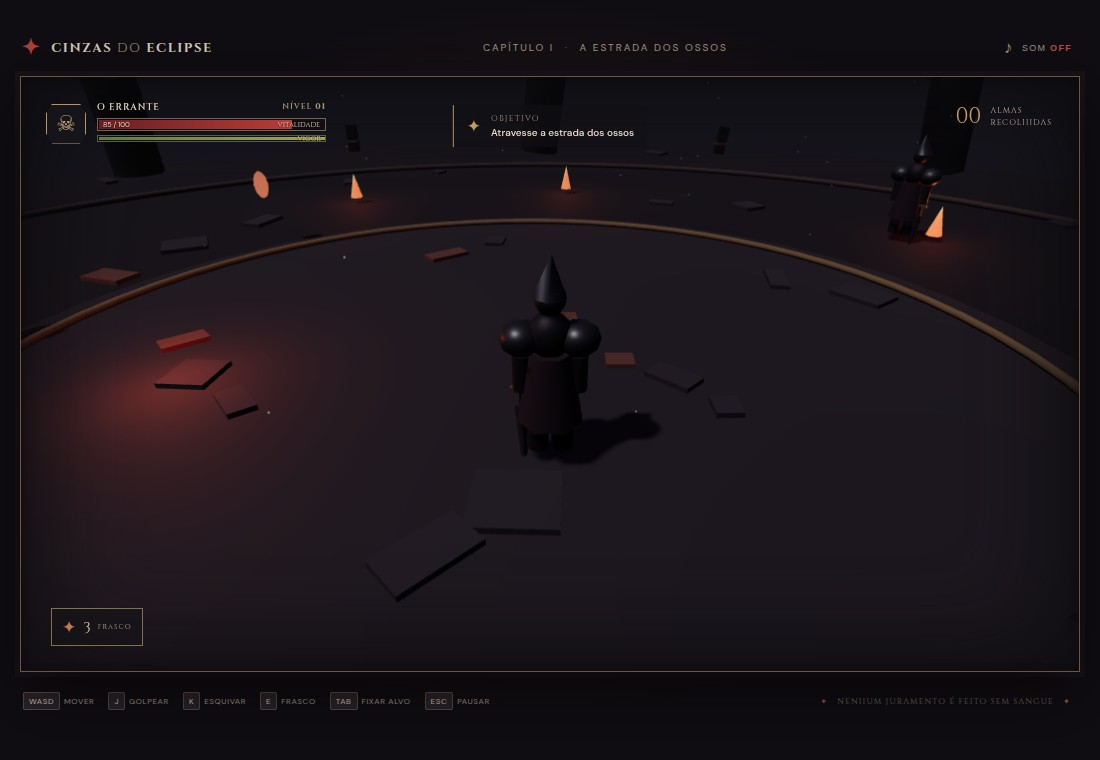
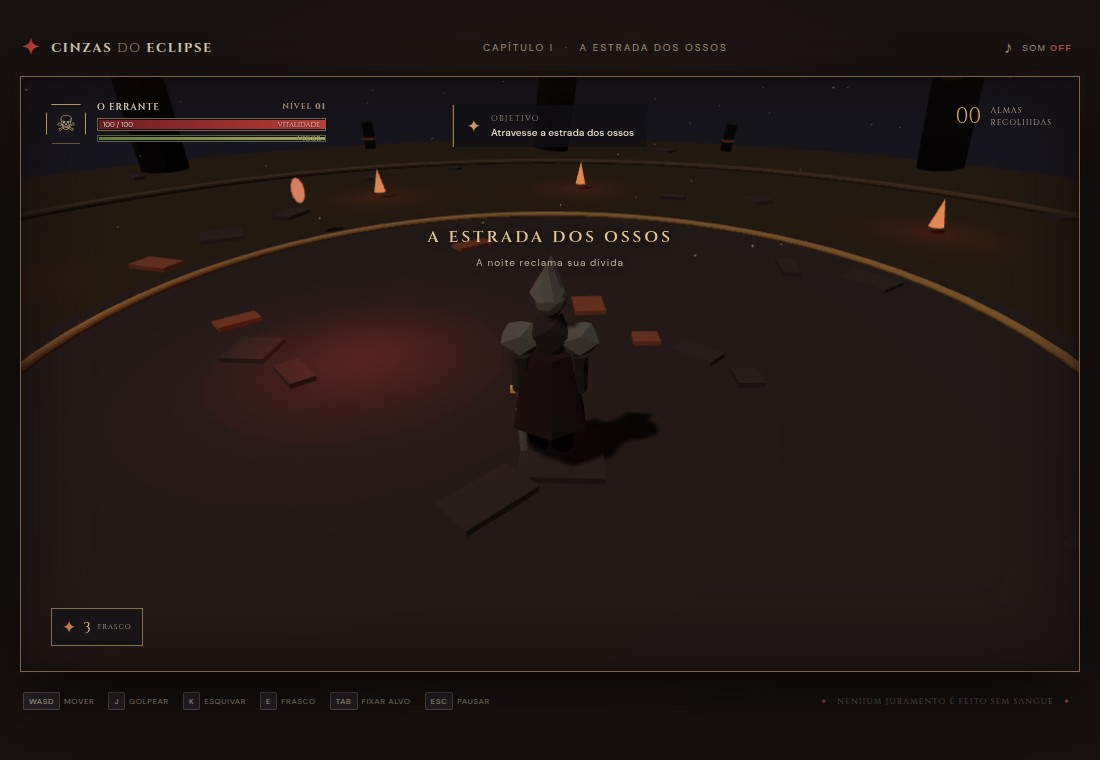
Publish static build for issue #4
Run: 42909543864
Attempt: 1
Generation: 5
Source: 9a268d9789074683455f60848a8487c2e03df6c5

diff --git a/style.css b/style.css
@@ -1,1 +1,8 @@
 *{box-sizing:border-box}[hidden]{display:none!important}:root{color-scheme:dark;--bone:#e5d7c0;--muted:#9c8b7b;--red:#a73834;--gold:#bd9460}html,body{margin:0;min-height:100%;background:#100d12;color:var(--bone);font-family:'DM Sans',sans-serif}body{display:grid;place-items:center;padding:20px;background:radial-gradient(ellipse at 50% 48%,#261b1a 0,#100d12 65%)}.game-shell{width:min(1200px,100%);margin:auto}.topbar{height:56px;display:flex;align-items:center;justify-content:space-between;border-bottom:1px solid #66534455;padding:0 2px;color:#d8cbb8}.wordmark{display:flex;align-items:center;gap:10px;color:inherit;text-decoration:none;font:700 13px 'Cinzel',serif;letter-spacing:1.55px}.wordmark i{font-style:normal;color:#a18d79;font-weight:400}.brand-mark{color:#ae3e39;font-size:21px}.chapter{font-size:10px;letter-spacing:2px;color:#a99680}.chapter span{color:#9e493e;padding:0 6px}.sound-toggle{border:0;background:transparent;color:#9e9082;display:flex;gap:8px;align-items:center;letter-spacing:1.3px;font-size:9px;cursor:pointer}.sound-toggle b{color:#b84b42;font-weight:600}.sound-icon{font-size:17px}.game-frame{position:relative;width:100%;aspect-ratio:16/9;overflow:hidden;background:#17151a;border:1px solid #6f5442;box-shadow:0 22px 65px #0009,0 0 0 5px #171217}.game-frame canvas{display:block;width:100%;height:100%;touch-action:none}.vignette{pointer-events:none;position:absolute;inset:0;box-shadow:inset 0 0 90px 28px #09090cbf,inset 0 0 15px #0009;z-index:1}.overlay{position:absolute;inset:0;z-index:3;display:flex;flex-direction:column;align-items:center;justify-content:center;text-align:center;background:linear-gradient(90deg,#0b0b10bf 0%,#10101576 49%,#10101576 60%,#0b0b10bf 100%)}.intro:before,.ending:before{content:'';position:absolute;inset:0;background:radial-gradient(ellipse at 51% 47%,transparent 0,transparent 25%,#0b0b1099 75%);pointer-events:none}.intro-copy{position:relative;margin-top:-10px}.eyebrow{display:flex;align-items:center;gap:12px;justify-content:center;color:#c4a878;font:600 10px 'Cinzel',serif;letter-spacing:3px}.eyebrow span{width:26px;height:1px;background:#a74a3e}.intro h1{font:600 clamp(38px,6.4vw,76px)/.95 'Cinzel',serif;letter-spacing:5px;margin:22px 0 18px;text-shadow:0 4px 26px #000}.intro h1 em,.ending h2 em{font-style:normal;color:#b6473d}.intro h1 em{font-size:.68em}.intro-desc{color:#d0c1ae;font:14px/1.7 'DM Sans',sans-serif;letter-spacing:.3px;margin:0 0 27px}.primary-button{position:relative;z-index:2;min-width:228px;padding:15px 20px;border:1px solid #a87b53;background:linear-gradient(135deg,#472724,#291b20);color:#e9d7bb;font:600 11px 'Cinzel',serif;letter-spacing:1.6px;cursor:pointer;box-shadow:0 8px 26px #0007;transition:.2s}.primary-button:hover{background:#62372d;transform:translateY(-2px);border-color:#d3ad79}.primary-button span{color:#d19a61;margin-left:12px;font-size:16px}.intro-note{margin-top:19px;color:#8f8073;font:9px 'Cinzel',serif;letter-spacing:1.8px}.intro-bottom{position:absolute;bottom:20px;left:28px;right:28px;display:flex;justify-content:space-between;color:#a39483;font:9px 'Cinzel',serif;letter-spacing:1.5px}.intro-bottom span:nth-child(2){color:#ad5542}.ending{background:#0b0a0cd9}.ending h2{font:600 clamp(36px,5vw,62px)/1.06 'Cinzel',serif;letter-spacing:3px;margin:20px 0}.ending>p:not(.eyebrow){color:#c3b4a1;font-size:14px;margin:0 0 28px}.hud{position:absolute;inset:0;z-index:2;pointer-events:none}.hero-status{position:absolute;left:25px;top:24px;display:flex;align-items:center;gap:11px;width:280px}.hero-portrait{width:40px;height:40px;display:grid;place-items:center;border:1px solid #b8945f;color:#c4a878;background:#17151dcc;font-size:22px;clip-path:polygon(15% 0,85% 0,100% 25%,100% 75%,85% 100%,15% 100%,0 75%,0 25%)}.status-bars{flex:1}.name-line{display:flex;justify-content:space-between;color:#e3d4c0;font:600 9px 'Cinzel',serif;letter-spacing:1px;margin-bottom:5px}.level{color:#a9957b;font-size:8px}.bar{height:13px;background:#100e12c9;border:1px solid #78614b;position:relative;margin-bottom:4px;overflow:hidden}.bar span{position:absolute;inset:1px auto 1px 1px;width:100%;transition:width .18s}.bar.hp span{background:linear-gradient(90deg,#6e1d23,#b73d38)}.bar.stamina{height:7px;border-color:#536043}.bar.stamina span{background:linear-gradient(90deg,#647b3a,#a9a64c)}.bar i,.bar b{position:absolute;right:5px;top:0;height:100%;display:flex;align-items:center;font:7px 'Cinzel',serif;color:#f0d7c3;text-shadow:0 1px 2px #000}.bar b{font:7px 'DM Sans',sans-serif;left:5px;right:auto}.bar.stamina i{color:#e3dabb;right:4px}.objective{position:absolute;top:28px;left:50%;transform:translateX(-50%);display:flex;align-items:center;gap:10px;background:#111014a6;padding:8px 13px;border-left:1px solid #b69160;white-space:nowrap}.objective-icon{color:#c39b65;font-size:17px}.objective small,.objective b{display:block}.objective small{font:8px 'Cinzel',serif;letter-spacing:1.3px;color:#a79680;margin-bottom:2px}.objective b{font:500 10px 'DM Sans',sans-serif;color:#eee0ce}.kill-count{position:absolute;right:27px;top:25px;display:flex;align-items:center;gap:9px;color:#d9c8b2}.kill-count>span{font:22px 'Cinzel',serif;color:#c69a62}.kill-count small{font:8px/1.4 'Cinzel',serif;letter-spacing:1px;color:#c2b19a}.flask{position:absolute;left:30px;bottom:25px;display:flex;align-items:center;gap:7px;padding:7px 10px;background:#151317b8;border:1px solid #83704d;color:#ddc397}.flask>span{font-size:17px;color:#c87851}.flask b{font:15px 'Cinzel',serif}.flask small{font:7px 'Cinzel',serif;letter-spacing:1px;color:#baa88e}.lock-label{position:absolute;top:102px;left:50%;transform:translateX(-50%);color:#e8c778;font:9px 'Cinzel',serif;letter-spacing:2px;text-shadow:0 2px 6px #000;opacity:0;transition:opacity .2s}.lock-label.visible{opacity:1}.boss-hud{position:absolute;z-index:2;bottom:24px;left:50%;transform:translateX(-50%);width:min(520px,60%);text-align:center}.boss-title{font:600 10px 'Cinzel',serif;letter-spacing:2px;color:#e0c8ab;text-shadow:0 2px 5px #000;margin-bottom:7px}.boss-title span{color:#bb654a;padding:0 8px}.boss-bar{height:10px;background:#160e10;border:1px solid #9a6d55;padding:1px}.boss-bar span{height:100%;display:block;width:100%;background:linear-gradient(90deg,#651c27,#b23d3b);transition:width .2s}.wave-toast{position:absolute;z-index:2;top:25%;left:50%;transform:translate(-50%,-10px);text-align:center;opacity:0;transition:opacity .4s,transform .4s;color:#e4c798;font:600 16px 'Cinzel',serif;letter-spacing:3px;text-shadow:0 2px 14px #000;pointer-events:none}.wave-toast.show{opacity:1;transform:translate(-50%,0)}.wave-toast small{display:block;margin-top:8px;color:#c2b19c;font:10px 'DM Sans',sans-serif;letter-spacing:1px}.pause-indicator{position:absolute;z-index:4;inset:0;display:flex;flex-direction:column;align-items:center;justify-content:center;background:#09090a99;color:#e6d5bd;font:22px 'Cinzel',serif;letter-spacing:5px}.pause-indicator small{font:9px 'DM Sans',sans-serif;letter-spacing:2px;margin-top:12px;color:#aa9984}.damage-flash{position:absolute;z-index:2;inset:0;opacity:0;pointer-events:none;background:radial-gradient(ellipse,transparent 38%,#8d161c99 100%);transition:opacity .15s}.loading{position:absolute;z-index:5;inset:0;display:grid;place-items:center;background:#100d12;color:#c7a779;font:11px 'Cinzel',serif;letter-spacing:3px;transition:opacity .4s}.loading.done{opacity:0;pointer-events:none}.bottom-bar{height:57px;display:flex;align-items:center;justify-content:space-between;border-top:1px solid #66534455;padding:0 3px}.controls-legend{display:flex;align-items:center;gap:14px;color:#a99783;font:8px 'DM Sans',sans-serif;letter-spacing:.6px}.controls-legend span{display:flex;align-items:center;gap:4px}kbd{font:8px 'DM Sans',sans-serif;color:#d6c6b0;background:#292329;border:1px solid #584b43;border-radius:2px;padding:3px 5px}.footer-caption{color:#827365;font:8px 'Cinzel',serif;letter-spacing:1.2px}.small-cross{color:#ad5342;padding:0 6px}.mobile-controls{display:none;position:absolute;z-index:2;left:14px;right:14px;bottom:12px;justify-content:space-between;align-items:flex-end;pointer-events:none}.dpad,.action-pad{display:grid;grid-template-columns:repeat(2,44px);gap:6px;pointer-events:auto}.dpad button,.action-pad button{height:42px;width:44px;border:1px solid #c5a16b88;border-radius:50%;background:#17151ad9;color:#ead8bd;font-size:18px;touch-action:none}.action-pad button:nth-child(2){background:#6f3029d9}.action-pad{grid-template-columns:repeat(2,46px)}.action-pad button{width:46px;height:46px}.mobile-controls button:active{background:#9e563b}.game-frame:has(.mobile-controls button){ }@media(max-width:700px){body{padding:7px}.topbar{height:42px}.chapter{display:none}.game-frame{aspect-ratio:16/10}.game-frame canvas{object-fit:cover}.bottom-bar{height:auto;min-height:43px;justify-content:center}.footer-caption{display:none}.controls-legend{gap:7px;flex-wrap:wrap;justify-content:center}.controls-legend span{font-size:7px}.controls-legend span:nth-child(n+4){display:none}.mobile-controls{display:flex}.hero-status{left:10px;top:10px;width:205px;transform:scale(.85);transform-origin:top left}.objective{top:68px;left:auto;right:8px;transform:none;padding:6px 8px}.objective b{font-size:8px}.kill-count{right:10px;top:10px;transform:scale(.85);transform-origin:top right}.flask{left:auto;right:12px;bottom:13px}.boss-hud{bottom:76px;width:72%}.lock-label{top:99px}.intro h1{letter-spacing:3px;margin:15px 0}.intro-desc{font-size:12px;margin-bottom:17px}.primary-button{padding:12px 16px}.intro-bottom{bottom:10px;left:12px;right:12px;font-size:7px}.intro-note{font-size:7px}.eyebrow{font-size:8px;letter-spacing:1.5px}.hero-portrait{width:34px;height:34px}.status-bars{min-width:145px}}@media(max-height:500px) and (orientation:landscape){body{padding:4px}.topbar{height:30px}.bottom-bar{height:30px}.game-frame{aspect-ratio:16/9}.mobile-controls{bottom:5px}.intro-copy{transform:scale(.76)}.intro-bottom{bottom:6px}}
+/* Classic late-80s/90s dark-fantasy cel-animation finish. */
+:root{--bone:#e8d8ba;--muted:#a5967f;--red:#a63832;--gold:#c7a36d}
+html,body{background-color:#17110f}
+body{background:radial-gradient(ellipse at 50% 45%,#32211d 0,#17110f 68%)}
+.game-frame{border-color:#806348;box-shadow:0 22px 65px #000b,0 0 0 5px #1a1310}
+.vignette{box-shadow:inset 0 0 65px 16px #100b09a8,inset 0 0 10px #0008}
+.intro,.ending{background:linear-gradient(90deg,#120e0dc7 0%,#1a131078 49%,#1a131078 60%,#120e0dc7 100%)}

diff --git a/game.js b/game.js
@@ -3,15 +3,17 @@ import * as THREE from 'https://cdn.jsdelivr.net/npm/three@0.170.0/build/three.m
   'use strict';
   const canvas=document.querySelector('#game'), frame=document.querySelector('.game-frame');
   const ui={intro:document.querySelector('#intro'),ending:document.querySelector('#ending'),endingTitle:document.querySelector('#endingTitle'),endingText:document.querySelector('#endingText'),start:document.querySelector('#startButton'),restart:document.querySelector('#restartButton'),hud:document.querySelector('#hud'),healthFill:document.querySelector('#healthFill'),healthText:document.querySelector('#healthText'),staminaFill:document.querySelector('#staminaFill'),level:document.querySelector('#level'),kills:document.querySelector('#killCount'),objective:document.querySelector('#objectiveText'),bossHud:document.querySelector('#bossHud'),bossFill:document.querySelector('#bossFill'),toast:document.querySelector('#waveToast'),pause:document.querySelector('#pauseIndicator'),flash:document.querySelector('#damageFlash'),sound:document.querySelector('#soundToggle'),soundLabel:document.querySelector('#soundLabel'),flaskCount:document.querySelector('#flaskCount'),lockLabel:document.querySelector('#lockLabel'),loading:document.querySelector('#loading')};
-  const renderer=new THREE.WebGLRenderer({canvas,antialias:true,alpha:false}); renderer.setPixelRatio(Math.min(devicePixelRatio||1,1.6)); renderer.shadowMap.enabled=true; renderer.shadowMap.type=THREE.PCFSoftShadowMap; renderer.outputColorSpace=THREE.SRGBColorSpace; renderer.toneMapping=THREE.ACESFilmicToneMapping; renderer.toneMappingExposure=1.15;
-  const scene=new THREE.Scene(); scene.background=new THREE.Color('#16151d'); scene.fog=new THREE.FogExp2('#25202a',.012);
+  const renderer=new THREE.WebGLRenderer({canvas,antialias:true,alpha:false}); renderer.setPixelRatio(Math.min(devicePixelRatio||1,1.6)); renderer.shadowMap.enabled=true; renderer.shadowMap.type=THREE.PCFSoftShadowMap; renderer.outputColorSpace=THREE.SRGBColorSpace; renderer.toneMapping=THREE.ACESFilmicToneMapping; renderer.toneMappingExposure=1.3;
+  const scene=new THREE.Scene(); scene.background=new THREE.Color('#16151d'); scene.fog=new THREE.FogExp2('#211a1b',.009);
   const camera=new THREE.PerspectiveCamera(54,1,.1,180); camera.position.set(0,5,10);
-  scene.add(new THREE.HemisphereLight('#a9a9c5','#29201d',1.45));
-  const moonLight=new THREE.DirectionalLight('#c0b9bb',2.4);moonLight.position.set(-7,13,5);moonLight.castShadow=true;moonLight.shadow.mapSize.set(1024,1024);moonLight.shadow.camera.left=-18;moonLight.shadow.camera.right=18;moonLight.shadow.camera.top=18;moonLight.shadow.camera.bottom=-18;moonLight.shadow.bias=-.0005;scene.add(moonLight);
+  scene.add(new THREE.HemisphereLight('#bbb7b0','#241c1c',1.1));
+  const moonLight=new THREE.DirectionalLight('#d3c4a4',2.7);moonLight.position.set(-7,13,5);moonLight.castShadow=true;moonLight.shadow.mapSize.set(1024,1024);moonLight.shadow.camera.left=-18;moonLight.shadow.camera.right=18;moonLight.shadow.camera.top=18;moonLight.shadow.camera.bottom=-18;moonLight.shadow.bias=-.0005;scene.add(moonLight);
   const warm=new THREE.PointLight('#d35c37',22,18,2);warm.position.set(-5,2,1);scene.add(warm);
   const clock=new THREE.Clock(), keys=new Set(), touch={};let game=null,soundOn=false,audioCtx=null,lastToast=0;
-  const mat=(color,rough=.85,metal=0)=>new THREE.MeshStandardMaterial({color,roughness:rough,metalness:metal});
-  const mats={stone:mat('#39343a'),dark:mat('#19171d'),rust:mat('#64433a'),bone:mat('#b7a58d'),metal:mat('#53545b',.4,.72),gold:mat('#a78353',.42,.65),cloak:mat('#30252d'),red:mat('#812f32'),skin:mat('#9b7c69'),glow:new THREE.MeshStandardMaterial({color:'#d76842',emissive:'#c64125',emissiveIntensity:2}),grass:mat('#343129')};
+  // A stepped light ramp gives the models the hard cel-shaded values of hand-painted dark-fantasy animation.
+  const toonRamp=new THREE.DataTexture(new Uint8Array([31,29,34,255,92,81,79,255,168,151,127,255,240,220,181,255]),4,1,THREE.RGBAFormat);toonRamp.magFilter=THREE.NearestFilter;toonRamp.minFilter=THREE.NearestFilter;toonRamp.needsUpdate=true;
+  const mat=(color,rough=.85,metal=0)=>new THREE.MeshToonMaterial({color,gradientMap:toonRamp});
+  const mats={stone:mat('#39343a'),dark:mat('#19171d'),rust:mat('#64433a'),bone:mat('#b7a58d'),metal:mat('#53545b'),gold:mat('#a78353'),cloak:mat('#30252d'),red:mat('#812f32'),skin:mat('#9b7c69'),glow:new THREE.MeshBasicMaterial({color:'#d76842'}),grass:mat('#343129')};
   const boxGeo=new THREE.BoxGeometry(1,1,1),sphereGeo=new THREE.IcosahedronGeometry(1,1),cylinderGeo=new THREE.CylinderGeometry(1,1,1,8);
   function mesh(geo,material,parent,x=0,y=0,z=0,sx=1,sy=1,sz=1){const m=new THREE.Mesh(geo,material);m.position.set(x,y,z);m.scale.set(sx,sy,sz);m.castShadow=true;m.receiveShadow=true;parent.add(m);return m;}
   function group(parent,x=0,y=0,z=0){const g=new THREE.Group();g.position.set(x,y,z);parent.add(g);return g;}
@@ -19,7 +21,7 @@ import * as THREE from 'https://cdn.jsdelivr.net/npm/three@0.170.0/build/three.m
   // The blood moon and a broken ring of abbey ruins frame the arena.
   const moon=mesh(new THREE.SphereGeometry(3,24,16),new THREE.MeshBasicMaterial({color:'#9b504b'}),scene,13,12,-32);moon.material.transparent=true;moon.material.opacity=.8;
   const moonGlow=new THREE.PointLight('#733a47',35,70,2);moonGlow.position.set(13,11,-22);scene.add(moonGlow);
-  const floor=mesh(new THREE.CircleGeometry(30,64),mat('#28252a'),scene,0,-.12,0);floor.rotation.x=-Math.PI/2;floor.receiveShadow=true;
+  const floor=mesh(new THREE.CircleGeometry(30,64),mat('#36302b'),scene,0,-.12,0);floor.rotation.x=-Math.PI/2;floor.receiveShadow=true;
   const center=mesh(new THREE.CircleGeometry(11,40),mat('#353036'),scene,0,-.1,0);center.rotation.x=-Math.PI/2;
   const outer=mesh(new THREE.TorusGeometry(21,.12,6,96),mat('#4b403b'),scene,0,.02,0);outer.rotation.x=Math.PI/2;
   const ring=mesh(new THREE.TorusGeometry(10,.09,6,64),mat('#766046'),scene,0,.03,0);ring.rotation.x=Math.PI/2;
@@ -32,17 +34,17 @@ import * as THREE from 'https://cdn.jsdelivr.net/npm/three@0.170.0/build/three.m
   const ashGeo=new THREE.BufferGeometry(),ashPos=new Float32Array(220*3);for(let i=0;i<220;i++){ashPos[i*3]=(Math.random()-.5)*56;ashPos[i*3+1]=Math.random()*12;ashPos[i*3+2]=(Math.random()-.5)*50;}ashGeo.setAttribute('position',new THREE.BufferAttribute(ashPos,3));const ash=new THREE.Points(ashGeo,new THREE.PointsMaterial({color:'#d4b895',size:.055,transparent:true,opacity:.58}));scene.add(ash);
   function makeHumanoid(boss=false){
     const root=group(scene);const body=group(root,0,.05,0);const armor= boss?mat('#28232c',.48,.5):mat('#353139',.55,.45);const robe=boss?mat('#211a25'):mats.cloak;
-    mesh(new THREE.CylinderGeometry(.3,.48,1.05,7),robe,body,0,1.12,0,1,1,1);
-    mesh(new THREE.IcosahedronGeometry(.34,1),armor,body,0,1.9,0,.92,1.02,.82);
-    mesh(new THREE.SphereGeometry(.24,10,8),boss?mats.bone:mats.metal,body,0,2.42,0,.9,1.02,.9);
-    const helm=mesh(new THREE.ConeGeometry(.26,.55,6),boss?mats.dark:mats.metal,body,0,2.72,0);helm.rotation.z=.08;
+    mesh(new THREE.CylinderGeometry(.3,.58,1.05,6),robe,body,0,1.12,0,1,1,1);
+    mesh(new THREE.IcosahedronGeometry(.34,0),armor,body,0,1.9,0,.92,1.02,.82);
+    mesh(new THREE.SphereGeometry(.24,7,5),boss?mats.bone:mats.metal,body,0,2.42,0,.9,1.02,.9);
+    const helm=mesh(new THREE.ConeGeometry(.26,.55,5),boss?mats.dark:mats.metal,body,0,2.72,0);helm.rotation.z=.08;
     mesh(boxGeo,mats.dark,body,0,2.4,.205,.28,.09,.07);
-    const shoulderL=group(body,-.39,1.85,0),shoulderR=group(body,.39,1.85,0);mesh(new THREE.IcosahedronGeometry(.3,1),boss?mats.red:mats.metal,shoulderL,0,0,0,1,.85,1);mesh(new THREE.IcosahedronGeometry(.3,1),boss?mats.red:mats.metal,shoulderR,0,0,0,1,.85,1);
+    const shoulderL=group(body,-.39,1.85,0),shoulderR=group(body,.39,1.85,0);mesh(new THREE.IcosahedronGeometry(.3,0),boss?mats.red:mats.metal,shoulderL,0,0,0,1,.85,1);mesh(new THREE.IcosahedronGeometry(.3,0),boss?mats.red:mats.metal,shoulderR,0,0,0,1,.85,1);
     const armL=group(shoulderL,0,-.18,0),armR=group(shoulderR,0,-.18,0);mesh(cylinderGeo,armor,armL,0,-.34,0,.13,.54,.13);mesh(cylinderGeo,armor,armR,0,-.34,0,.13,.54,.13);
     const legL=group(body,-.18,.72,0),legR=group(body,.18,.72,0);mesh(cylinderGeo,armor,legL,0,-.3,0,.16,.66,.17);mesh(cylinderGeo,armor,legR,0,-.3,0,.16,.66,.17);
     // Long, readable blade silhouette.
-    const sword=group(armR,0,-.66,.08);mesh(boxGeo,mats.gold,sword,0,0,0,.34,.08,.09);mesh(boxGeo,mats.dark,sword,0,-.22,0,.09,.42,.1);const blade=mesh(new THREE.ConeGeometry(.12,1.45,4),mats.metal,sword,0,-1.02,0);blade.rotation.z=Math.PI;
-    if(boss){for(let s of [-1,1]){const horn=mesh(new THREE.ConeGeometry(.12,.95,5),mats.bone,body,s*.28,2.98,0);horn.rotation.z=-s*.48;}}
+    const sword=group(armR,0,-.66,.08);mesh(boxGeo,mats.gold,sword,0,0,0,.34,.08,.09);mesh(boxGeo,mats.dark,sword,0,-.22,0,.09,.42,.1);const blade=mesh(new THREE.ConeGeometry(.12,1.45,3),mats.metal,sword,0,-1.02,0);blade.rotation.z=Math.PI;
+    if(boss){for(let s of [-1,1]){const horn=mesh(new THREE.ConeGeometry(.12,.95,4),mats.bone,body,s*.28,2.98,0);horn.rotation.z=-s*.48;}}
     return {root,body,armL,armR,legL,legR,sword,helm,baseY:0};
   }
   let heroVisual=makeHumanoid(false);heroVisual.root.position.set(-.8,0,3);

diff --git a/index.html b/index.html
@@ -3,7 +3,7 @@
 <head>
   <meta charset="utf-8" />
   <meta name="viewport" content="width=device-width, initial-scale=1, viewport-fit=cover" />
-  <meta name="theme-color" content="#100d12" />
+  <meta name="theme-color" content="#17110f" />
   <title>Cinzas do Eclipse — Uma caçada sombria</title>
   <link rel="preconnect" href="https://fonts.googleapis.com" />
   <link rel="preconnect" href="https://fonts.gstatic.com" crossorigin />
@@ -43,7 +43,7 @@
           <h1>CINZAS <em>DO</em><br>ECLIPSE</h1>
           <p class="intro-desc">Quando a lua sangra, os mortos lembram<br>o caminho de volta para casa.</p>
           <button class="primary-button" id="startButton">INICIAR A CAÇADA <span>→</span></button>
-          <div class="intro-note">UM COMBATE SOMBRIO EM 3D · UMA HISTÓRIA ORIGINAL</div>
+          <div class="intro-note">FANTASIA SOMBRIA · TRAÇO DE ANIMAÇÃO CLÁSSICA</div>
         </div>
         <div class="intro-bottom"><span>EDIÇÃO DA MEIA-NOITE</span><span>◈</span><span>01 — 03</span></div>
       </div>
